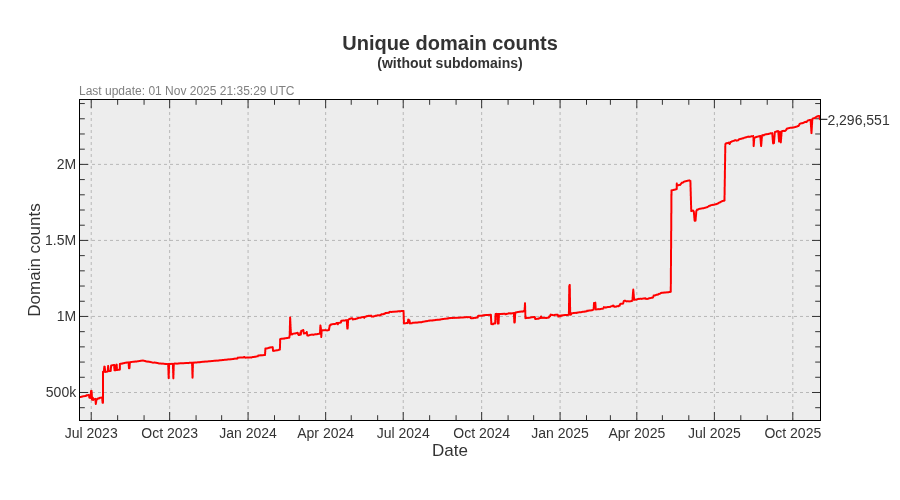
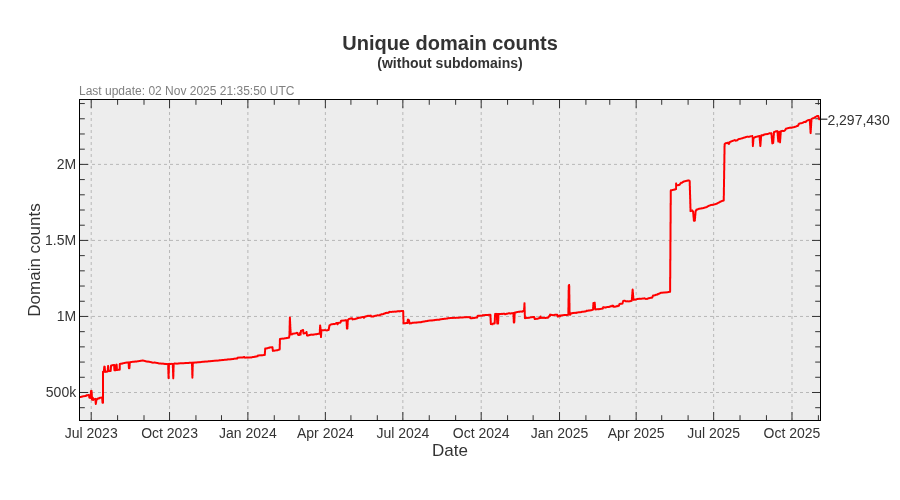
Update pages

diff --git a/README.md b/README.md
@@ -3,22 +3,22 @@ A blocklist file for blocking ads, trackers and malware domains.
 
[1 lines of base64/hex data omitted]
 
-- Unique domains: 2,995,315
-- Without subdomains: 2,296,551
-- Last update: 01 Nov 2025 21:35:29 UTC
-- Version: 2025.11.01.01
+- Unique domains: 2,996,207
+- Without subdomains: 2,297,430
+- Last update: 02 Nov 2025 21:35:50 UTC
+- Version: 2025.11.02.01
 
 
 ### Downloads:
 
 | Format             | Domain count      | Download Link |
 |:------------------ | -----------------:|:-------------:|
-| *Adblock Plus*     | 2,296,551 | [Download](https://dl.cenk.app/bad-hosts/bad-hosts-abp) |
-| *Wildcard domains* | 2,296,551 | [Download](https://dl.cenk.app/bad-hosts/bad-hosts-wildcard) |
-| *dnsmasq*          | 2,296,551 | [Download](https://dl.cenk.app/bad-hosts/bad-hosts-dnsmasq) |
-| *hosts*            | 2,995,315 | [Download](https://dl.cenk.app/bad-hosts/hosts) |
-| *hosts (ipv6)*     | 2,995,315 | [Download](https://dl.cenk.app/bad-hosts/hosts-ipv6) |
-| *Plain domains*    | 2,995,315 | [Download](https://dl.cenk.app/bad-hosts/bad-hosts-domains) |
+| *Adblock Plus*     | 2,297,430 | [Download](https://dl.cenk.app/bad-hosts/bad-hosts-abp) |
+| *Wildcard domains* | 2,297,430 | [Download](https://dl.cenk.app/bad-hosts/bad-hosts-wildcard) |
+| *dnsmasq*          | 2,297,430 | [Download](https://dl.cenk.app/bad-hosts/bad-hosts-dnsmasq) |
+| *hosts*            | 2,996,207 | [Download](https://dl.cenk.app/bad-hosts/hosts) |
+| *hosts (ipv6)*     | 2,996,207 | [Download](https://dl.cenk.app/bad-hosts/hosts-ipv6) |
+| *Plain domains*    | 2,996,207 | [Download](https://dl.cenk.app/bad-hosts/bad-hosts-domains) |
 
 ### Domain count history
 #### With subdomains
